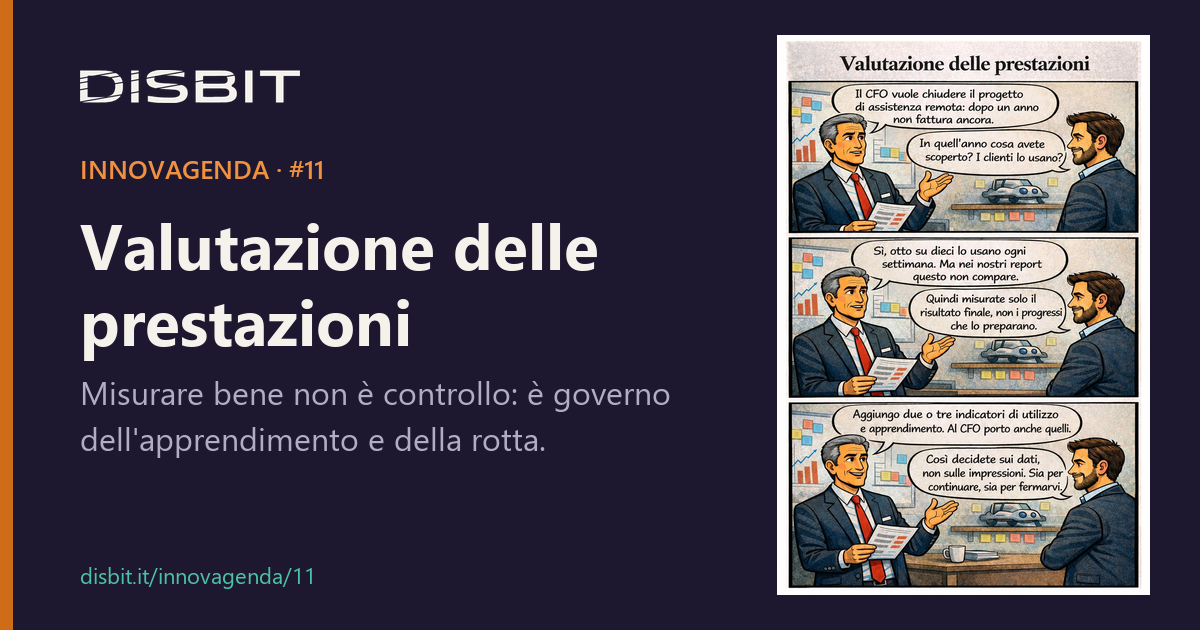
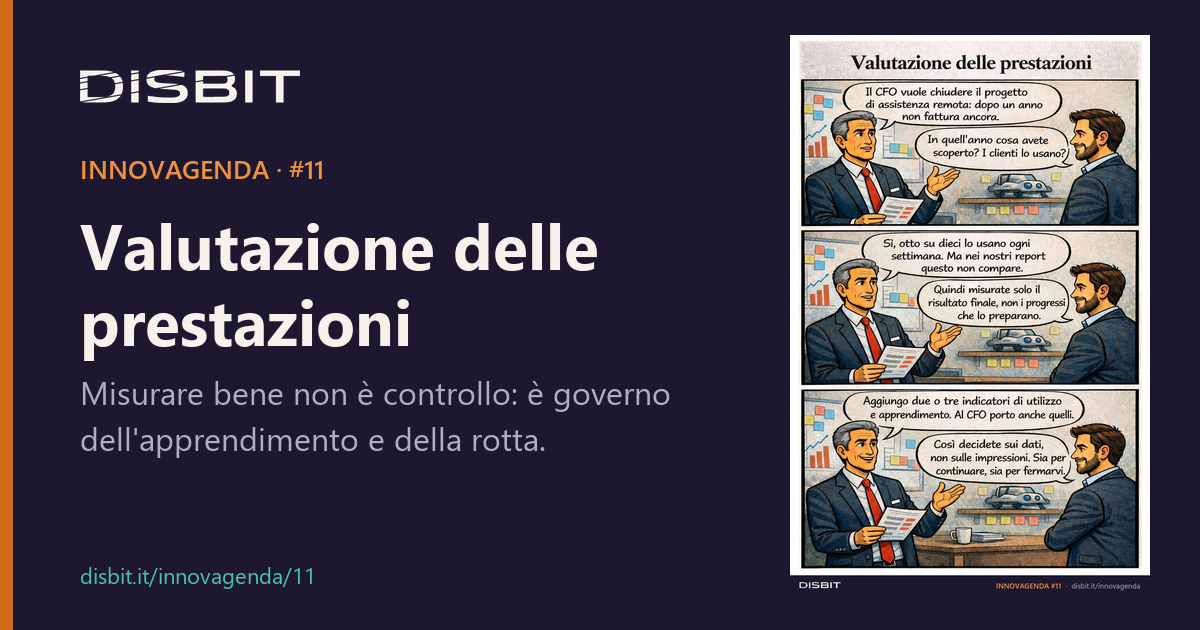
INNOVAGENDA: tavole firmate DISBIT e nomi file parlanti
Fascia in basso con logo e disbit.it/innovagenda su tutte le 12 tavole;
file rinominati in DISBIT-INNOVAGENDA-NN-titolo.jpg; anteprime social aggiornate.

Changed region(s): [[0.6475, 0.0603, 0.9558, 0.9651]]

diff --git a/index.html b/index.html
@@ -614,18 +614,18 @@ footer a{color:var(--hero-muted)}
       <p>12 principi per la gestione strategica dell'innovazione, ispirati alla serie ISO 56000. Non una checklist, ma la lente manageriale che il metodo DISBIT applica ai processi.</p>
     </div>
     <div class="principles">
-        <button class="principle" type="button" data-i="0"><img class="pthumb" src="assets/innovagenda/thumb/01.jpg" alt="" width="640" height="278" loading="lazy"><span class="n">#01</span><h3>Realizzazione del valore</h3><p>Il valore non nasce dall'idea, ma dalla sua realizzazione concreta.</p><span class="more">Approfondisci →</span></button>
-        <button class="principle" type="button" data-i="1"><img class="pthumb" src="assets/innovagenda/thumb/02.jpg" alt="" width="640" height="278" loading="lazy"><span class="n">#02</span><h3>Gestione dell'incertezza</h3><p>L'incertezza non va eliminata, ma governata: è il terreno su cui nasce l'innovazione significativa.</p><span class="more">Approfondisci →</span></button>
-        <button class="principle" type="button" data-i="2"><img class="pthumb" src="assets/innovagenda/thumb/03.jpg" alt="" width="640" height="278" loading="lazy"><span class="n">#03</span><h3>Orientamento strategico</h3><p>Senza orientamento strategico, l'innovazione diventa dispersione invece che leva competitiva.</p><span class="more">Approfondisci →</span></button>
-        <button class="principle" type="button" data-i="3"><img class="pthumb" src="assets/innovagenda/thumb/04.jpg" alt="" width="640" height="278" loading="lazy"><span class="n">#04</span><h3>Approccio sistemico</h3><p>L'innovazione diventa una capacità reale solo quando smette di essere episodica.</p><span class="more">Approfondisci →</span></button>
-        <button class="principle extra" type="button" data-i="4"><img class="pthumb" src="assets/innovagenda/thumb/05.jpg" alt="" width="640" height="278" loading="lazy"><span class="n">#05</span><h3>Leadership orientata al futuro</h3><p>La leadership non protegge solo la stabilità: costruisce la direzione del cambiamento.</p><span class="more">Approfondisci →</span></button>
-        <button class="principle extra" type="button" data-i="5"><img class="pthumb" src="assets/innovagenda/thumb/06.jpg" alt="" width="640" height="278" loading="lazy"><span class="n">#06</span><h3>Cultura dell'innovazione</h3><p>La cultura decide cosa è consentito fare quando si innova.</p><span class="more">Approfondisci →</span></button>
-        <button class="principle extra" type="button" data-i="6"><img class="pthumb" src="assets/innovagenda/thumb/07.jpg" alt="" width="640" height="278" loading="lazy"><span class="n">#07</span><h3>Sfruttamento delle intuizioni</h3><p>Gli insight trasformano l'informazione in scelte: senza, si innova a vista.</p><span class="more">Approfondisci →</span></button>
-        <button class="principle extra" type="button" data-i="7"><img class="pthumb" src="assets/innovagenda/thumb/08.jpg" alt="" width="640" height="278" loading="lazy"><span class="n">#08</span><h3>Adattabilità</h3><p>L'adattabilità è una capacità progettata, non una reazione improvvisata.</p><span class="more">Approfondisci →</span></button>
-        <button class="principle extra" type="button" data-i="8"><img class="pthumb" src="assets/innovagenda/thumb/09.jpg" alt="" width="640" height="278" loading="lazy"><span class="n">#09</span><h3>Innovazione aperta</h3><p>L'ecosistema accelera ciò che l'organizzazione, da sola, tende a rallentare.</p><span class="more">Approfondisci →</span></button>
-        <button class="principle extra" type="button" data-i="9"><img class="pthumb" src="assets/innovagenda/thumb/10.jpg" alt="" width="640" height="278" loading="lazy"><span class="n">#10</span><h3>Gestione della conoscenza</h3><p>La conoscenza diventa vantaggio solo quando è memoria collettiva, non sapere individuale.</p><span class="more">Approfondisci →</span></button>
-        <button class="principle extra" type="button" data-i="10"><img class="pthumb" src="assets/innovagenda/thumb/11.jpg" alt="" width="640" height="278" loading="lazy"><span class="n">#11</span><h3>Valutazione delle prestazioni</h3><p>Misurare bene non è controllo: è governo dell'apprendimento e della rotta.</p><span class="more">Approfondisci →</span></button>
-        <button class="principle extra" type="button" data-i="11"><img class="pthumb" src="assets/innovagenda/thumb/12.jpg" alt="" width="640" height="278" loading="lazy"><span class="n">#12</span><h3>Integrità e responsabilità sociale</h3><p>L'integrità non è un vincolo a posteriori: è progettazione responsabile fin dall'inizio.</p><span class="more">Approfondisci →</span></button>
+        <button class="principle" type="button" data-i="0" data-strip="assets/innovagenda/DISBIT-INNOVAGENDA-01-realizzazione-del-valore.jpg"><img class="pthumb" src="assets/innovagenda/thumb/01.jpg" alt="" width="640" height="278" loading="lazy"><span class="n">#01</span><h3>Realizzazione del valore</h3><p>Il valore non nasce dall'idea, ma dalla sua realizzazione concreta.</p><span class="more">Approfondisci →</span></button>
+        <button class="principle" type="button" data-i="1" data-strip="assets/innovagenda/DISBIT-INNOVAGENDA-02-gestione-dell-incertezza.jpg"><img class="pthumb" src="assets/innovagenda/thumb/02.jpg" alt="" width="640" height="278" loading="lazy"><span class="n">#02</span><h3>Gestione dell'incertezza</h3><p>L'incertezza non va eliminata, ma governata: è il terreno su cui nasce l'innovazione significativa.</p><span class="more">Approfondisci →</span></button>
+        <button class="principle" type="button" data-i="2" data-strip="assets/innovagenda/DISBIT-INNOVAGENDA-03-orientamento-strategico.jpg"><img class="pthumb" src="assets/innovagenda/thumb/03.jpg" alt="" width="640" height="278" loading="lazy"><span class="n">#03</span><h3>Orientamento strategico</h3><p>Senza orientamento strategico, l'innovazione diventa dispersione invece che leva competitiva.</p><span class="more">Approfondisci →</span></button>
+        <button class="principle" type="button" data-i="3" data-strip="assets/innovagenda/DISBIT-INNOVAGENDA-04-approccio-sistemico.jpg"><img class="pthumb" src="assets/innovagenda/thumb/04.jpg" alt="" width="640" height="278" loading="lazy"><span class="n">#04</span><h3>Approccio sistemico</h3><p>L'innovazione diventa una capacità reale solo quando smette di essere episodica.</p><span class="more">Approfondisci →</span></button>
+        <button class="principle extra" type="button" data-i="4" data-strip="assets/innovagenda/DISBIT-INNOVAGENDA-05-leadership-orientata-al-futuro.jpg"><img class="pthumb" src="assets/innovagenda/thumb/05.jpg" alt="" width="640" height="278" loading="lazy"><span class="n">#05</span><h3>Leadership orientata al futuro</h3><p>La leadership non protegge solo la stabilità: costruisce la direzione del cambiamento.</p><span class="more">Approfondisci →</span></button>
+        <button class="principle extra" type="button" data-i="5" data-strip="assets/innovagenda/DISBIT-INNOVAGENDA-06-cultura-dell-innovazione.jpg"><img class="pthumb" src="assets/innovagenda/thumb/06.jpg" alt="" width="640" height="278" loading="lazy"><span class="n">#06</span><h3>Cultura dell'innovazione</h3><p>La cultura decide cosa è consentito fare quando si innova.</p><span class="more">Approfondisci →</span></button>
+        <button class="principle extra" type="button" data-i="6" data-strip="assets/innovagenda/DISBIT-INNOVAGENDA-07-sfruttamento-delle-intuizioni.jpg"><img class="pthumb" src="assets/innovagenda/thumb/07.jpg" alt="" width="640" height="278" loading="lazy"><span class="n">#07</span><h3>Sfruttamento delle intuizioni</h3><p>Gli insight trasformano l'informazione in scelte: senza, si innova a vista.</p><span class="more">Approfondisci →</span></button>
+        <button class="principle extra" type="button" data-i="7" data-strip="assets/innovagenda/DISBIT-INNOVAGENDA-08-adattabilita.jpg"><img class="pthumb" src="assets/innovagenda/thumb/08.jpg" alt="" width="640" height="278" loading="lazy"><span class="n">#08</span><h3>Adattabilità</h3><p>L'adattabilità è una capacità progettata, non una reazione improvvisata.</p><span class="more">Approfondisci →</span></button>
+        <button class="principle extra" type="button" data-i="8" data-strip="assets/innovagenda/DISBIT-INNOVAGENDA-09-innovazione-aperta.jpg"><img class="pthumb" src="assets/innovagenda/thumb/09.jpg" alt="" width="640" height="278" loading="lazy"><span class="n">#09</span><h3>Innovazione aperta</h3><p>L'ecosistema accelera ciò che l'organizzazione, da sola, tende a rallentare.</p><span class="more">Approfondisci →</span></button>
+        <button class="principle extra" type="button" data-i="9" data-strip="assets/innovagenda/DISBIT-INNOVAGENDA-10-gestione-della-conoscenza.jpg"><img class="pthumb" src="assets/innovagenda/thumb/10.jpg" alt="" width="640" height="278" loading="lazy"><span class="n">#10</span><h3>Gestione della conoscenza</h3><p>La conoscenza diventa vantaggio solo quando è memoria collettiva, non sapere individuale.</p><span class="more">Approfondisci →</span></button>
+        <button class="principle extra" type="button" data-i="10" data-strip="assets/innovagenda/DISBIT-INNOVAGENDA-11-valutazione-delle-prestazioni.jpg"><img class="pthumb" src="assets/innovagenda/thumb/11.jpg" alt="" width="640" height="278" loading="lazy"><span class="n">#11</span><h3>Valutazione delle prestazioni</h3><p>Misurare bene non è controllo: è governo dell'apprendimento e della rotta.</p><span class="more">Approfondisci →</span></button>
+        <button class="principle extra" type="button" data-i="11" data-strip="assets/innovagenda/DISBIT-INNOVAGENDA-12-integrita-e-responsabilita-sociale.jpg"><img class="pthumb" src="assets/innovagenda/thumb/12.jpg" alt="" width="640" height="278" loading="lazy"><span class="n">#12</span><h3>Integrità e responsabilità sociale</h3><p>L'integrità non è un vincolo a posteriori: è progettazione responsabile fin dall'inizio.</p><span class="more">Approfondisci →</span></button>
     </div>
     <a class="btn btn-outline" href="/innovagenda/">Vedi tutti i 12 principi →</a>
     <p class="closing">L'innovazione non fallisce per mancanza di idee, ma per assenza di governo.</p>
@@ -638,7 +638,7 @@ footer a{color:var(--hero-muted)}
     <button class="close" type="button" aria-label="Chiudi" data-close>×</button>
     <span class="n" id="pdlg-n"></span>
     <h3 id="pdlg-title"></h3>
-    <figure id="pdlg-fig" hidden><img id="pdlg-img" alt="" width="840" height="1260"></figure>
+    <figure id="pdlg-fig" hidden><img id="pdlg-img" alt="" width="840" height="1306"></figure>
     <div class="part"><b>Il principio</b><p id="pdlg-p"></p></div>
     <div class="part"><b>L'errore più frequente</b><p id="pdlg-e"></p></div>
     <div class="part"><b>Come si riconosce</b><p id="pdlg-s"></p></div>
@@ -703,7 +703,7 @@ footer a{color:var(--hero-muted)}
     $('pdlg-p').textContent=d.p;$('pdlg-e').textContent=d.e;$('pdlg-s').textContent=d.s;$('pdlg-d').textContent=d.d;$('pdlg-m').textContent=d.m;$('pdlg-link').href='/innovagenda/'+nn+'/';
     const fig=$('pdlg-fig'),img=$('pdlg-img');fig.hidden=true;
     img.onload=()=>{fig.hidden=false};img.onerror=()=>{fig.hidden=true};
-    img.alt='Tavola a fumetti INNOVAGENDA #'+nn+': '+c.querySelector('h3').textContent;img.src='assets/innovagenda/'+nn+'.jpg';
+    img.alt='Tavola a fumetti INNOVAGENDA #'+nn+': '+c.querySelector('h3').textContent;img.src=c.dataset.strip;
   };
   let opener=null;
   cards.forEach((c,i)=>c.addEventListener('click',()=>{opener=c;show(i);dlg.showModal()}));

diff --git a/en/index.html b/en/index.html
@@ -611,18 +611,18 @@ footer a{color:var(--hero-muted)}
       <p>12 principles for the strategic management of innovation, inspired by the ISO 56000 series. Not a checklist, but the management lens the DISBIT method applies to processes.</p>
     </div>
     <div class="principles">
-        <button class="principle" type="button" data-i="0"><span class="n">#01</span><h3>Value realization</h3><p>Value doesn’t come from the idea, but from putting it into practice.</p><span class="more">Read more →</span></button>
-        <button class="principle" type="button" data-i="1"><span class="n">#02</span><h3>Managing uncertainty</h3><p>Uncertainty isn’t something to eliminate but to manage: it is the ground where meaningful innovation grows.</p><span class="more">Read more →</span></button>
-        <button class="principle" type="button" data-i="2"><span class="n">#03</span><h3>Strategic direction</h3><p>Without strategic direction, innovation becomes scattered effort instead of a competitive lever.</p><span class="more">Read more →</span></button>
-        <button class="principle" type="button" data-i="3"><span class="n">#04</span><h3>Systems approach</h3><p>Innovation becomes a real capability only when it stops being occasional.</p><span class="more">Read more →</span></button>
-        <button class="principle extra" type="button" data-i="4"><span class="n">#05</span><h3>Future-focused leadership</h3><p>Leadership doesn’t just protect stability: it sets the direction of change.</p><span class="more">Read more →</span></button>
-        <button class="principle extra" type="button" data-i="5"><span class="n">#06</span><h3>Innovation culture</h3><p>Culture decides what you are allowed to do when you innovate.</p><span class="more">Read more →</span></button>
-        <button class="principle extra" type="button" data-i="6"><span class="n">#07</span><h3>Exploiting insights</h3><p>Insights turn information into choices: without them, you innovate blind.</p><span class="more">Read more →</span></button>
-        <button class="principle extra" type="button" data-i="7"><span class="n">#08</span><h3>Adaptability</h3><p>Adaptability is a designed capability, not an improvised reaction.</p><span class="more">Read more →</span></button>
-        <button class="principle extra" type="button" data-i="8"><span class="n">#09</span><h3>Open innovation</h3><p>The ecosystem speeds up what the organization, on its own, tends to slow down.</p><span class="more">Read more →</span></button>
-        <button class="principle extra" type="button" data-i="9"><span class="n">#10</span><h3>Knowledge management</h3><p>Knowledge becomes an advantage only when it is collective memory, not individual know-how.</p><span class="more">Read more →</span></button>
-        <button class="principle extra" type="button" data-i="10"><span class="n">#11</span><h3>Performance assessment</h3><p>Measuring well isn’t control: it is steering learning and direction.</p><span class="more">Read more →</span></button>
-        <button class="principle extra" type="button" data-i="11"><span class="n">#12</span><h3>Integrity and social responsibility</h3><p>Integrity isn’t an afterthought: it is responsible design from the start.</p><span class="more">Read more →</span></button>
+        <button class="principle" type="button" data-i="0" data-strip="/assets/innovagenda/en/DISBIT-INNOVAGENDA-01-value-realization.jpg"><span class="n">#01</span><h3>Value realization</h3><p>Value doesn’t come from the idea, but from putting it into practice.</p><span class="more">Read more →</span></button>
+        <button class="principle" type="button" data-i="1" data-strip="/assets/innovagenda/en/DISBIT-INNOVAGENDA-02-managing-uncertainty.jpg"><span class="n">#02</span><h3>Managing uncertainty</h3><p>Uncertainty isn’t something to eliminate but to manage: it is the ground where meaningful innovation grows.</p><span class="more">Read more →</span></button>
+        <button class="principle" type="button" data-i="2" data-strip="/assets/innovagenda/en/DISBIT-INNOVAGENDA-03-strategic-direction.jpg"><span class="n">#03</span><h3>Strategic direction</h3><p>Without strategic direction, innovation becomes scattered effort instead of a competitive lever.</p><span class="more">Read more →</span></button>
+        <button class="principle" type="button" data-i="3" data-strip="/assets/innovagenda/en/DISBIT-INNOVAGENDA-04-systems-approach.jpg"><span class="n">#04</span><h3>Systems approach</h3><p>Innovation becomes a real capability only when it stops being occasional.</p><span class="more">Read more →</span></button>
+        <button class="principle extra" type="button" data-i="4" data-strip="/assets/innovagenda/en/DISBIT-INNOVAGENDA-05-future-focused-leadership.jpg"><span class="n">#05</span><h3>Future-focused leadership</h3><p>Leadership doesn’t just protect stability: it sets the direction of change.</p><span class="more">Read more →</span></button>
+        <button class="principle extra" type="button" data-i="5" data-strip="/assets/innovagenda/en/DISBIT-INNOVAGENDA-06-innovation-culture.jpg"><span class="n">#06</span><h3>Innovation culture</h3><p>Culture decides what you are allowed to do when you innovate.</p><span class="more">Read more →</span></button>
+        <button class="principle extra" type="button" data-i="6" data-strip="/assets/innovagenda/en/DISBIT-INNOVAGENDA-07-exploiting-insights.jpg"><span class="n">#07</span><h3>Exploiting insights</h3><p>Insights turn information into choices: without them, you innovate blind.</p><span class="more">Read more →</span></button>
+        <button class="principle extra" type="button" data-i="7" data-strip="/assets/innovagenda/en/DISBIT-INNOVAGENDA-08-adaptability.jpg"><span class="n">#08</span><h3>Adaptability</h3><p>Adaptability is a designed capability, not an improvised reaction.</p><span class="more">Read more →</span></button>
+        <button class="principle extra" type="button" data-i="8" data-strip="/assets/innovagenda/en/DISBIT-INNOVAGENDA-09-open-innovation.jpg"><span class="n">#09</span><h3>Open innovation</h3><p>The ecosystem speeds up what the organization, on its own, tends to slow down.</p><span class="more">Read more →</span></button>
+        <button class="principle extra" type="button" data-i="9" data-strip="/assets/innovagenda/en/DISBIT-INNOVAGENDA-10-knowledge-management.jpg"><span class="n">#10</span><h3>Knowledge management</h3><p>Knowledge becomes an advantage only when it is collective memory, not individual know-how.</p><span class="more">Read more →</span></button>
+        <button class="principle extra" type="button" data-i="10" data-strip="/assets/innovagenda/en/DISBIT-INNOVAGENDA-11-performance-assessment.jpg"><span class="n">#11</span><h3>Performance assessment</h3><p>Measuring well isn’t control: it is steering learning and direction.</p><span class="more">Read more →</span></button>
+        <button class="principle extra" type="button" data-i="11" data-strip="/assets/innovagenda/en/DISBIT-INNOVAGENDA-12-integrity-and-social-responsibility.jpg"><span class="n">#12</span><h3>Integrity and social responsibility</h3><p>Integrity isn’t an afterthought: it is responsible design from the start.</p><span class="more">Read more →</span></button>
     </div>
     <a class="btn btn-outline" href="/en/innovagenda/">See all 12 principles →</a>
     <p class="closing">Innovation doesn’t fail for lack of ideas, but for lack of governance.</p>
@@ -635,7 +635,7 @@ footer a{color:var(--hero-muted)}
     <button class="close" type="button" aria-label="Close" data-close>×</button>
     <span class="n" id="pdlg-n"></span>
     <h3 id="pdlg-title"></h3>
-    <figure id="pdlg-fig" hidden><img id="pdlg-img" alt="" width="840" height="1260"></figure>
+    <figure id="pdlg-fig" hidden><img id="pdlg-img" alt="" width="840" height="1306"></figure>
     <div class="part"><b>The principle</b><p id="pdlg-p"></p></div>
     <div class="part"><b>The most common mistake</b><p id="pdlg-e"></p></div>
     <div class="part"><b>How to recognize it</b><p id="pdlg-s"></p></div>
@@ -700,7 +700,7 @@ footer a{color:var(--hero-muted)}
     $('pdlg-p').textContent=d.p;$('pdlg-e').textContent=d.e;$('pdlg-s').textContent=d.s;$('pdlg-d').textContent=d.d;$('pdlg-m').textContent=d.m;$('pdlg-link').href='/en/innovagenda/'+nn+'/';
     const fig=$('pdlg-fig'),img=$('pdlg-img');fig.hidden=true;
     img.onload=()=>{fig.hidden=false};img.onerror=()=>{fig.hidden=true};
-    img.alt='INNOVAGENDA comic strip #'+nn+': '+c.querySelector('h3').textContent;img.src='/assets/innovagenda/en/'+nn+'.jpg';
+    img.alt='INNOVAGENDA comic strip #'+nn+': '+c.querySelector('h3').textContent;img.src=c.dataset.strip;
   };
   let opener=null;
   cards.forEach((c,i)=>c.addEventListener('click',()=>{opener=c;show(i);dlg.showModal()}));

diff --git a/innovagenda/10/index.html b/innovagenda/10/index.html
@@ -82,7 +82,7 @@ footer{border-top:1px solid var(--line);padding:24px 0;font-size:13px;color:var(
 <h1>Gestione della conoscenza</h1>
 <p class="claim">La conoscenza diventa vantaggio solo quando è memoria collettiva, non sapere individuale.</p>
 <p class="by">di Ilario Tornese · Innovation Manager certificato UNI 11814</p>
-<figure><img src="/assets/innovagenda/10.jpg" alt="Tavola a fumetti INNOVAGENDA #10: Gestione della conoscenza" width="840" height="1260"></figure>
+<figure><img src="/assets/innovagenda/DISBIT-INNOVAGENDA-10-gestione-della-conoscenza.jpg" alt="Tavola a fumetti INNOVAGENDA #10: Gestione della conoscenza" width="840" height="1306"></figure>
 <section class="part"><h2>Il principio</h2><p>La conoscenza è un patrimonio dell’organizzazione: quella nella testa delle persone e quella scritta in dati e procedure. Gestirla significa raccoglierla, conservarla e metterla a disposizione di chi deve decidere, nel momento in cui serve.</p></section><section class="part"><h2>L&#x27;errore più frequente</h2><p>Si dà per scontato che gli esperti restino per sempre, o che il sapere passi a voce da un collega all’altro. Così il know-how resta una proprietà personale invece di diventare un bene dell’azienda.</p></section><section class="part"><h2>Come si riconosce</h2><p>Quando una figura chiave se ne va o un progetto si chiude, la conoscenza se ne va con loro. I team risolvono problemi già risolti e ripetono errori già fatti: è la cosiddetta amnesia organizzativa.</p></section><section class="part"><h2>Da dove partire</h2><p>Partire dalle informazioni che oggi si recuperano a forza di solleciti. In un servizio complesso che ho gestito, lo stato delle attività viveva nei file e nella memoria delle singole persone: portarlo su un sistema unico ha ridotto le rincorse e reso ogni informazione verificabile da tutti.</p></section>
 <p class="maxim">La conoscenza diventa vantaggio solo quando è memoria collettiva, non sapere individuale.</p>
 <a class="share" href="https://www.linkedin.com/sharing/share-offsite/?url=https%3A%2F%2Fdisbit.it%2Finnovagenda%2F10%2F" target="_blank" rel="noopener">Condividi su LinkedIn ↗</a>

diff --git a/innovagenda/12/index.html b/innovagenda/12/index.html
@@ -82,7 +82,7 @@ footer{border-top:1px solid var(--line);padding:24px 0;font-size:13px;color:var(
 <h1>Integrità e responsabilità sociale</h1>
 <p class="claim">L&#x27;integrità non è un vincolo a posteriori: è progettazione responsabile fin dall&#x27;inizio.</p>
 <p class="by">di Ilario Tornese · Innovation Manager certificato UNI 11814</p>
-<figure><img src="/assets/innovagenda/12.jpg" alt="Tavola a fumetti INNOVAGENDA #12: Integrità e responsabilità sociale" width="840" height="1260"></figure>
+<figure><img src="/assets/innovagenda/DISBIT-INNOVAGENDA-12-integrita-e-responsabilita-sociale.jpg" alt="Tavola a fumetti INNOVAGENDA #12: Integrità e responsabilità sociale" width="840" height="1306"></figure>
 <section class="part"><h2>Il principio</h2><p>Un’innovazione non è mai neutra. Ogni entità nuova o modificata produce effetti su persone, ambiente e società, e l’integrità chiede di considerarli fin dalla progettazione, non dopo.</p></section><section class="part"><h2>L&#x27;errore più frequente</h2><p>Si valuta l’innovazione solo per redditività e vantaggio competitivo, e la responsabilità sociale finisce al marketing o alla comunicazione. L’etica diventa un costo da contenere invece che un criterio di progetto.</p></section><section class="part"><h2>Come si riconosce</h2><p>Soluzioni efficaci ma fragili, che producono effetti imprevisti: impatti ambientali, problemi di privacy, crisi di reputazione. Partner e investitori più diffidenti. Talenti che scelgono di lavorare altrove.</p></section><section class="part"><h2>Da dove partire</h2><p>Aggiungere alle revisioni di progetto una domanda fissa: chi potrebbe essere danneggiato da questa soluzione, e che cosa possiamo cambiare adesso perché non accada? L’integrità funziona come un depuratore integrato nell’impianto, non aggiunto a valle.</p></section>
 <p class="maxim">L’integrità non è un vincolo a posteriori: è progettazione responsabile fin dall’inizio.</p>
 <a class="share" href="https://www.linkedin.com/sharing/share-offsite/?url=https%3A%2F%2Fdisbit.it%2Finnovagenda%2F12%2F" target="_blank" rel="noopener">Condividi su LinkedIn ↗</a>

diff --git a/innovagenda/02/index.html b/innovagenda/02/index.html
@@ -82,7 +82,7 @@ footer{border-top:1px solid var(--line);padding:24px 0;font-size:13px;color:var(
 <h1>Gestione dell&#x27;incertezza</h1>
 <p class="claim">L&#x27;incertezza non va eliminata, ma governata: è il terreno su cui nasce l&#x27;innovazione significativa.</p>
 <p class="by">di Ilario Tornese · Innovation Manager certificato UNI 11814</p>
-<figure><img src="/assets/innovagenda/02.jpg" alt="Tavola a fumetti INNOVAGENDA #02: Gestione dell&#x27;incertezza" width="840" height="1260"></figure>
+<figure><img src="/assets/innovagenda/DISBIT-INNOVAGENDA-02-gestione-dell-incertezza.jpg" alt="Tavola a fumetti INNOVAGENDA #02: Gestione dell&#x27;incertezza" width="840" height="1306"></figure>
 <section class="part"><h2>Il principio</h2><p>Quando si innova mancano informazioni: sul mercato, sulla tecnologia, sulla reazione delle persone. Non è un difetto del progetto, è la sua natura. Governare l’incertezza significa trasformare, un passo alla volta, le ipotesi in fatti verificati.</p></section><section class="part"><h2>L&#x27;errore più frequente</h2><p>Si chiede a un’idea nuova la stessa certezza che si chiede a un processo collaudato: business plan a tre anni, ROI garantito, nessuno scostamento dal piano. Ma il rischio si calcola, l’incertezza no. Si riduce solo provando.</p></section><section class="part"><h2>Come si riconosce</h2><p>Il portafoglio contiene solo miglioramenti incrementali, perché sono gli unici che superano il comitato. Le idee più coraggiose vengono abbandonate al primo intoppo. I progetti interrotti finiscono in archivio come perdite, senza che nessuno ne ricavi una lezione.</p></section><section class="part"><h2>Da dove partire</h2><p>Sostituire la domanda «quanto renderà?» con «qual è l’ipotesi più rischiosa, e come la verifichiamo in un mese spendendo poco?».</p></section>
 <p class="maxim">L’incertezza non va eliminata, ma governata: è il terreno su cui nasce l’innovazione significativa.</p>
 <a class="share" href="https://www.linkedin.com/sharing/share-offsite/?url=https%3A%2F%2Fdisbit.it%2Finnovagenda%2F02%2F" target="_blank" rel="noopener">Condividi su LinkedIn ↗</a>

diff --git a/innovagenda/09/index.html b/innovagenda/09/index.html
@@ -82,7 +82,7 @@ footer{border-top:1px solid var(--line);padding:24px 0;font-size:13px;color:var(
 <h1>Innovazione aperta</h1>
 <p class="claim">L&#x27;ecosistema accelera ciò che l&#x27;organizzazione, da sola, tende a rallentare.</p>
 <p class="by">di Ilario Tornese · Innovation Manager certificato UNI 11814</p>
-<figure><img src="/assets/innovagenda/09.jpg" alt="Tavola a fumetti INNOVAGENDA #09: Innovazione aperta" width="840" height="1260"></figure>
+<figure><img src="/assets/innovagenda/DISBIT-INNOVAGENDA-09-innovazione-aperta.jpg" alt="Tavola a fumetti INNOVAGENDA #09: Innovazione aperta" width="840" height="1306"></figure>
 <section class="part"><h2>Il principio</h2><p>Le idee e le competenze che servono non stanno tutte dentro l’azienda. L’innovazione aperta gestisce in modo intenzionale la conoscenza che entra ed esce: università, startup, fornitori, clienti. L’azienda smette di essere una fortezza che deve produrre ogni idea tra le proprie mura e diventa una rete che scambia di continuo con l’esterno.</p></section><section class="part"><h2>L&#x27;errore più frequente</h2><p>La collaborazione viene vista come un rischio per la proprietà intellettuale, oppure ridotta a un acquisto di servizi. Ma comprare una consulenza non è co-creare: manca lo scambio nei due sensi.</p></section><section class="part"><h2>Come si riconosce</h2><p>Team che sviluppano da zero ciò che all’esterno esiste già. Time-to-market lunghi. Competenze e brevetti interni che restano in un cassetto invece di generare valore anche fuori.</p></section><section class="part"><h2>Da dove partire</h2><p>Fare la mappa dei partner con cui l’azienda lavora oggi e chiedersi, per ciascuno, che cosa abbiamo imparato da loro nell’ultimo anno. Se la risposta è «niente», è solo fornitura.</p></section>
 <p class="maxim">L’ecosistema accelera ciò che l’organizzazione, da sola, tende a rallentare.</p>
 <a class="share" href="https://www.linkedin.com/sharing/share-offsite/?url=https%3A%2F%2Fdisbit.it%2Finnovagenda%2F09%2F" target="_blank" rel="noopener">Condividi su LinkedIn ↗</a>

diff --git a/innovagenda/01/index.html b/innovagenda/01/index.html
@@ -82,7 +82,7 @@ footer{border-top:1px solid var(--line);padding:24px 0;font-size:13px;color:var(
 <h1>Realizzazione del valore</h1>
 <p class="claim">Il valore non nasce dall&#x27;idea, ma dalla sua realizzazione concreta.</p>
 <p class="by">di Ilario Tornese · Innovation Manager certificato UNI 11814</p>
-<figure><img src="/assets/innovagenda/01.jpg" alt="Tavola a fumetti INNOVAGENDA #01: Realizzazione del valore" width="840" height="1260"></figure>
+<figure><img src="/assets/innovagenda/DISBIT-INNOVAGENDA-01-realizzazione-del-valore.jpg" alt="Tavola a fumetti INNOVAGENDA #01: Realizzazione del valore" width="840" height="1306"></figure>
 <section class="part"><h2>Il principio</h2><p>Un’innovazione esiste solo quando qualcuno la usa e ne ricava un beneficio. Prima di quel momento è un’idea, un prototipo, al massimo una promessa. Il valore può essere economico, ma anche tempo risparmiato, un servizio migliore, un rischio in meno: conta che lo riconosca chi lo riceve.</p></section><section class="part"><h2>L&#x27;errore più frequente</h2><p>Si misura l’innovazione da quante idee si producono. Brainstorming, hackathon, prototipi: tutto utile, ma se nessuno si chiede chi adotterà la soluzione, quando e con quali risorse, l’energia si ferma a metà strada.</p></section><section class="part"><h2>Come si riconosce</h2><p>Un cassetto pieno di proof of concept riusciti e mai entrati in produzione. Team entusiasti al primo pilota e disillusi al terzo. Budget spesi che nessuno riesce a collegare a un risultato.</p></section><section class="part"><h2>Da dove partire</h2><p>Per ogni iniziativa, una domanda prima ancora di cominciare: chi la userà, da quando, e come capiremo che ha funzionato?</p></section>
 <p class="maxim">Senza un percorso verso l’adozione, l’innovazione resta un esercizio sterile: il valore non nasce dall’idea, ma dalla sua realizzazione concreta.</p>
 <a class="share" href="https://www.linkedin.com/sharing/share-offsite/?url=https%3A%2F%2Fdisbit.it%2Finnovagenda%2F01%2F" target="_blank" rel="noopener">Condividi su LinkedIn ↗</a>

diff --git a/innovagenda/05/index.html b/innovagenda/05/index.html
@@ -82,7 +82,7 @@ footer{border-top:1px solid var(--line);padding:24px 0;font-size:13px;color:var(
 <h1>Leadership orientata al futuro</h1>
 <p class="claim">La leadership non protegge solo la stabilità: costruisce la direzione del cambiamento.</p>
 <p class="by">di Ilario Tornese · Innovation Manager certificato UNI 11814</p>
-<figure><img src="/assets/innovagenda/05.jpg" alt="Tavola a fumetti INNOVAGENDA #05: Leadership orientata al futuro" width="840" height="1260"></figure>
+<figure><img src="/assets/innovagenda/DISBIT-INNOVAGENDA-05-leadership-orientata-al-futuro.jpg" alt="Tavola a fumetti INNOVAGENDA #05: Leadership orientata al futuro" width="840" height="1306"></figure>
 <section class="part"><h2>Il principio</h2><p>Chi guida un’organizzazione deve tenere insieme due compiti: far funzionare bene l’oggi e preparare il domani. Servono la curiosità per mettere in discussione ciò che ha sempre funzionato e una visione che dia un senso al cambiamento.</p></section><section class="part"><h2>L&#x27;errore più frequente</h2><p>L’attenzione si concentra sull’efficienza e sul risultato del trimestre. Mettere in discussione un modello di successo sembra un rischio inutile, e la leadership finisce per coincidere con il controllo.</p></section><section class="part"><h2>Come si riconosce</h2><p>L’azienda reagisce in ritardo ai cambiamenti del mercato. Le persone vivono ogni novità come un disturbo. E quando un concorrente cambia le regole del gioco, ci si accorge di non avere alternative pronte.</p></section><section class="part"><h2>Da dove partire</h2><p>Riservare all’esplorazione una parte, anche piccola, del tempo del management e del budget, e renderne conto con la stessa serietà del resto.</p></section>
 <p class="maxim">La leadership non protegge solo la stabilità: costruisce la direzione del cambiamento.</p>
 <a class="share" href="https://www.linkedin.com/sharing/share-offsite/?url=https%3A%2F%2Fdisbit.it%2Finnovagenda%2F05%2F" target="_blank" rel="noopener">Condividi su LinkedIn ↗</a>

diff --git a/innovagenda/07/index.html b/innovagenda/07/index.html
@@ -82,7 +82,7 @@ footer{border-top:1px solid var(--line);padding:24px 0;font-size:13px;color:var(
 <h1>Sfruttamento delle intuizioni</h1>
 <p class="claim">Gli insight trasformano l&#x27;informazione in scelte: senza, si innova a vista.</p>
 <p class="by">di Ilario Tornese · Innovation Manager certificato UNI 11814</p>
-<figure><img src="/assets/innovagenda/07.jpg" alt="Tavola a fumetti INNOVAGENDA #07: Sfruttamento delle intuizioni" width="840" height="1260"></figure>
+<figure><img src="/assets/innovagenda/DISBIT-INNOVAGENDA-07-sfruttamento-delle-intuizioni.jpg" alt="Tavola a fumetti INNOVAGENDA #07: Sfruttamento delle intuizioni" width="840" height="1306"></figure>
 <section class="part"><h2>Il principio</h2><p>Un insight non è un dato. È la comprensione profonda di un bisogno, spesso non espresso, che apre un’opportunità. Nasce dal collegare fonti diverse (clienti, operatori, mercato, tendenze) e dal guardare oltre le richieste esplicite.</p></section><section class="part"><h2>L&#x27;errore più frequente</h2><p>Si confonde la quantità di dati con la conoscenza. Si analizzano lo storico interno e le richieste dei clienti attuali, e si perdono i segnali deboli che anticipano il cambiamento.</p></section><section class="part"><h2>Come si riconosce</h2><p>Idee poco distintive e facili da copiare. Difficoltà a scegliere su quali progetti puntare, perché manca una base di evidenze condivisa. Prodotti e processi che arrivano sul mercato già superati.</p></section><section class="part"><h2>Da dove partire</h2><p>Prima di progettare qualunque soluzione, passare del tempo dove il problema accade: in magazzino, allo sportello, accanto a chi usa davvero il processo. Molti insight stanno lì, non nei report.</p></section>
 <p class="maxim">Gli insight trasformano l’informazione in scelte: senza, si innova «a vista».</p>
 <a class="share" href="https://www.linkedin.com/sharing/share-offsite/?url=https%3A%2F%2Fdisbit.it%2Finnovagenda%2F07%2F" target="_blank" rel="noopener">Condividi su LinkedIn ↗</a>

diff --git a/innovagenda/04/index.html b/innovagenda/04/index.html
@@ -82,7 +82,7 @@ footer{border-top:1px solid var(--line);padding:24px 0;font-size:13px;color:var(
 <h1>Approccio sistemico</h1>
 <p class="claim">L&#x27;innovazione diventa una capacità reale solo quando smette di essere episodica.</p>
 <p class="by">di Ilario Tornese · Innovation Manager certificato UNI 11814</p>
-<figure><img src="/assets/innovagenda/04.jpg" alt="Tavola a fumetti INNOVAGENDA #04: Approccio sistemico" width="840" height="1260"></figure>
+<figure><img src="/assets/innovagenda/DISBIT-INNOVAGENDA-04-approccio-sistemico.jpg" alt="Tavola a fumetti INNOVAGENDA #04: Approccio sistemico" width="840" height="1306"></figure>
 <section class="part"><h2>Il principio</h2><p>L’innovazione non è un reparto né un evento. È il risultato di strategia, cultura, processi e risorse che lavorano nella stessa direzione: se uno di questi elementi va per conto suo, frena tutti gli altri.</p></section><section class="part"><h2>L&#x27;errore più frequente</h2><p>Si affida l’innovazione a un team dedicato, a un laboratorio o a un singolo dipartimento tecnico, e ci si aspetta che il resto dell’azienda si adegui. Ma ciò che nasce isolato tende a restare isolato.</p></section><section class="part"><h2>Come si riconosce</h2><p>Progetti pilota che funzionano e non scalano. Successi che dipendono da una persona brillante e spariscono quando cambia ruolo. Colli di bottiglia ricorrenti tra le funzioni, e lezioni apprese che restano chiuse nel singolo progetto.</p></section><section class="part"><h2>Da dove partire</h2><p>Riprendere l’ultimo progetto innovativo e ricostruire chi ha dovuto dire sì perché andasse avanti: acquisti, IT, legale, operations. Lì si vede dove il sistema regge e dove si inceppa.</p></section>
 <p class="maxim">L’innovazione diventa una capacità reale solo quando smette di essere episodica.</p>
 <a class="share" href="https://www.linkedin.com/sharing/share-offsite/?url=https%3A%2F%2Fdisbit.it%2Finnovagenda%2F04%2F" target="_blank" rel="noopener">Condividi su LinkedIn ↗</a>

diff --git a/innovagenda/03/index.html b/innovagenda/03/index.html
@@ -82,7 +82,7 @@ footer{border-top:1px solid var(--line);padding:24px 0;font-size:13px;color:var(
 <h1>Orientamento strategico</h1>
 <p class="claim">Senza orientamento strategico, l&#x27;innovazione diventa dispersione invece che leva competitiva.</p>
 <p class="by">di Ilario Tornese · Innovation Manager certificato UNI 11814</p>
-<figure><img src="/assets/innovagenda/03.jpg" alt="Tavola a fumetti INNOVAGENDA #03: Orientamento strategico" width="840" height="1260"></figure>
+<figure><img src="/assets/innovagenda/DISBIT-INNOVAGENDA-03-orientamento-strategico.jpg" alt="Tavola a fumetti INNOVAGENDA #03: Orientamento strategico" width="840" height="1306"></figure>
 <section class="part"><h2>Il principio</h2><p>L’innovazione ha bisogno di una direzione: obiettivi chiari, condivisi e coerenti con ciò che l’azienda vuole diventare. È la strategia a dire dove investire e, soprattutto, dove non farlo.</p></section><section class="part"><h2>L&#x27;errore più frequente</h2><p>Si innova per reazione: la tecnologia del momento, la richiesta di un cliente importante, l’annuncio di un concorrente. Ogni iniziativa ha senso presa da sola, ma nessuno ha deciso quali contano davvero.</p></section><section class="part"><h2>Come si riconosce</h2><p>Tanti progetti in parallelo che si contendono le stesse persone e lo stesso budget. Indicatori diversi per ogni iniziativa, quindi nessun confronto possibile. Isole di innovazione che non cambiano il modo in cui l’azienda compete.</p></section><section class="part"><h2>Da dove partire</h2><p>Scrivere in una pagina i tre obiettivi che l’innovazione deve servire nei prossimi due anni, e chiedere a ogni progetto a quale dei tre contribuisce.</p></section>
 <p class="maxim">Senza orientamento strategico, l’innovazione diventa dispersione invece che leva competitiva.</p>
 <a class="share" href="https://www.linkedin.com/sharing/share-offsite/?url=https%3A%2F%2Fdisbit.it%2Finnovagenda%2F03%2F" target="_blank" rel="noopener">Condividi su LinkedIn ↗</a>

diff --git a/innovagenda/11/index.html b/innovagenda/11/index.html
@@ -82,7 +82,7 @@ footer{border-top:1px solid var(--line);padding:24px 0;font-size:13px;color:var(
 <h1>Valutazione delle prestazioni</h1>
 <p class="claim">Misurare bene non è controllo: è governo dell&#x27;apprendimento e della rotta.</p>
 <p class="by">di Ilario Tornese · Innovation Manager certificato UNI 11814</p>
-<figure><img src="/assets/innovagenda/11.jpg" alt="Tavola a fumetti INNOVAGENDA #11: Valutazione delle prestazioni" width="840" height="1260"></figure>
+<figure><img src="/assets/innovagenda/DISBIT-INNOVAGENDA-11-valutazione-delle-prestazioni.jpg" alt="Tavola a fumetti INNOVAGENDA #11: Valutazione delle prestazioni" width="840" height="1306"></figure>
 <section class="part"><h2>Il principio</h2><p>Misurare serve a capire se le iniziative stanno producendo valore e a correggere la rotta mentre si naviga. Nell’innovazione vale ancora di più, perché il percorso non è mai lineare.</p></section><section class="part"><h2>L&#x27;errore più frequente</h2><p>Si applicano all’innovazione gli stessi indicatori dei processi stabili e si guarda solo il risultato finale. Ma nelle prime fasi il progresso si misura in ipotesi verificate e incertezze ridotte, non in fatturato.</p></section><section class="part"><h2>Come si riconosce</h2><p>Progetti senza prospettive che vanno avanti per inerzia, e progetti promettenti chiusi troppo presto. Lezioni che nessuno raccoglie. Decisioni prese su impressioni invece che su dati.</p></section><section class="part"><h2>Da dove partire</h2><p>Affiancare agli indicatori di risultato, per ogni iniziativa, due o tre indicatori di apprendimento. Senza misure si naviga come una nave senza radar: si può solo sperare di evitare gli ostacoli.</p></section>
 <p class="maxim">Misurare bene non è controllo: è governo dell’apprendimento e della rotta.</p>
 <a class="share" href="https://www.linkedin.com/sharing/share-offsite/?url=https%3A%2F%2Fdisbit.it%2Finnovagenda%2F11%2F" target="_blank" rel="noopener">Condividi su LinkedIn ↗</a>
